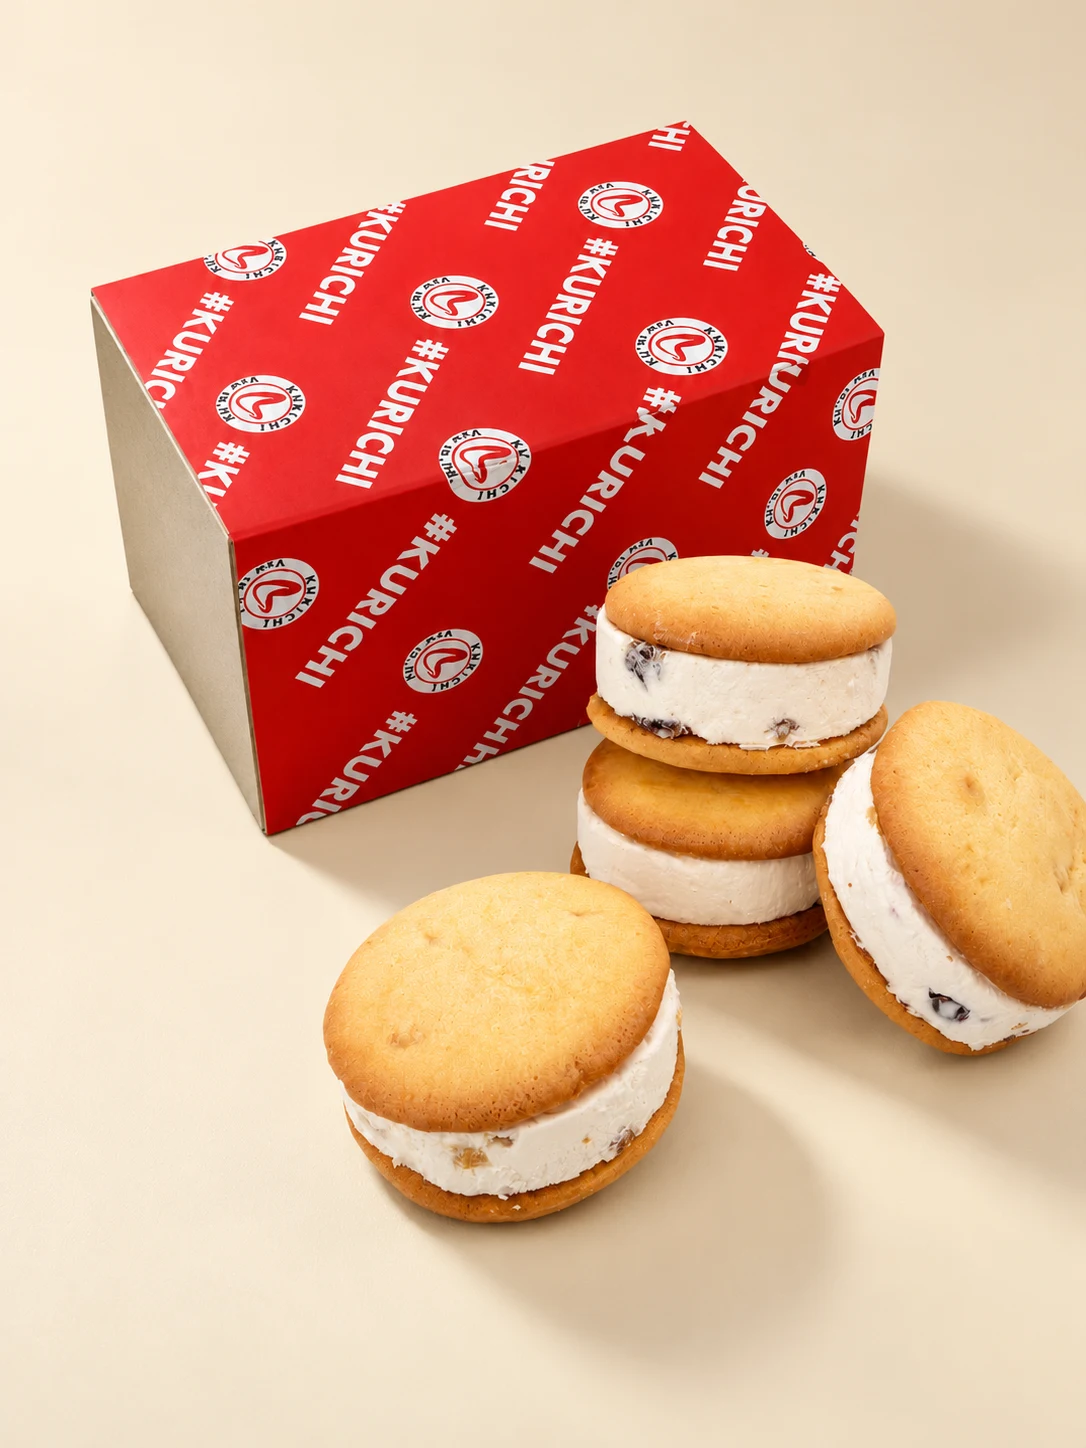
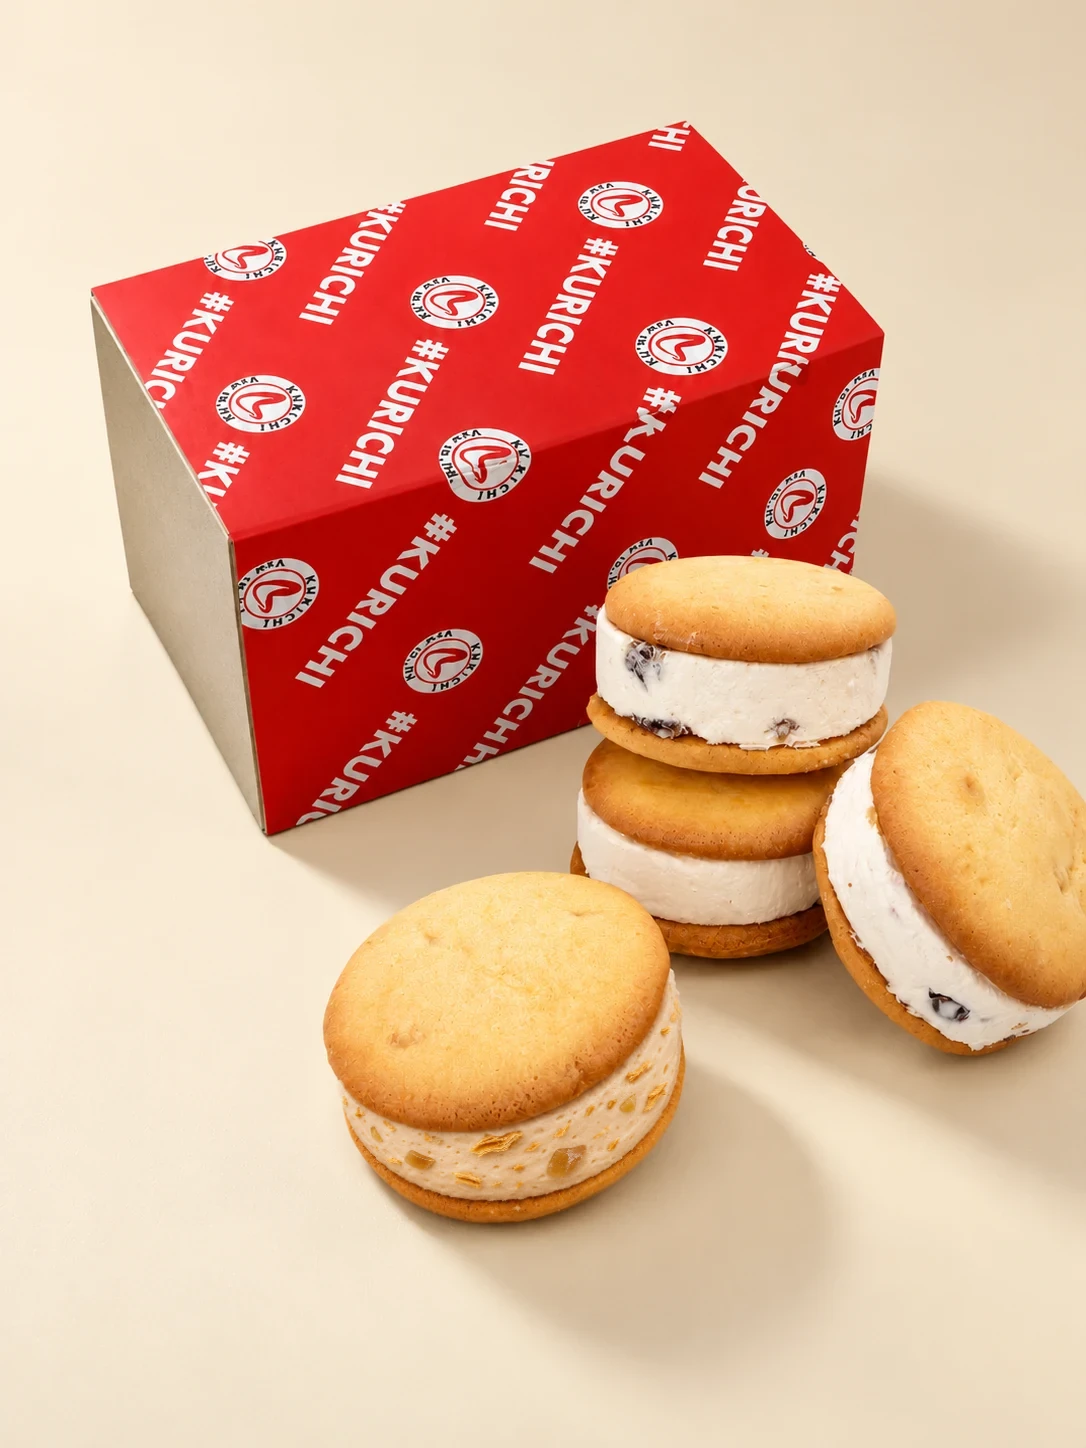
Refresh Woopee flavors and point sticker links to Coco’s reverse

Changed region(s): [[0.3039, 0.6526, 0.6381, 0.8391]]

diff --git a/new/index.html b/new/index.html
@@ -10,11 +10,11 @@
   <title>KURICHI — クリームチーズで、毎日をちょっと楽しく。</title>
   <link rel="preconnect" href="https://fonts.googleapis.com">
   <link rel="preconnect" href="https://fonts.gstatic.com" crossorigin>
-  <link rel="preload" href="assets/hero-stack.webp" as="image">
+  <link rel="preload" href="assets/hero-stack.webp?v=woopee6-20261128" as="image">
   <link rel="preload" href="assets/diner-hosts.webp" as="image">
   <link href="https://fonts.googleapis.com/css2?family=Anton&family=DM+Sans:wght@400;500;600;700;800&family=Noto+Sans+JP:wght@400;500;600;700;800;900&display=swap" rel="stylesheet">
-  <link rel="stylesheet" href="style.css?v=74d97e47">
-  <script src="script.js?v=f445f883" defer></script>
+  <link rel="stylesheet" href="style.css?v=e899a258">
+  <script src="script.js?v=8a1058e1" defer></script>
   <noscript><style>@media(max-width:760px){.site-header{height:auto;display:block;padding-block:18px}.primary-nav{display:flex;position:static;flex-wrap:wrap;flex-direction:row;box-shadow:none;padding:18px 0 0;gap:12px;height:auto}.primary-nav>a:not(.nav-shop){border:0;padding:6px 0;font-size:13px}.nav-shop{margin:0}.menu-toggle{display:none}}</style></noscript>
   <meta name="robots" content="noindex,nofollow,noarchive">
 </head>
@@ -40,12 +40,12 @@
             <p class="hero-jp">#クリチ、食べた？</p>
             <p class="hero-desc">クリームチーズで、<br>毎日をちょっと楽しく。<br>しっとりクッキーでクリームチーズをサンドした、ひんやりスイーツ「Woopee」。</p>
             <a class="button button-red" href="#flavors">フレーバーを見る <span aria-hidden="true">↗</span></a>
-            <div><a class="text-link hero-sticker-link" href="https://vsw.co.jp/kurichi-stickers/#collection">スーパークリチマンを見る <span aria-hidden="true">↗</span></a></div>
+            <div><a class="text-link hero-sticker-link" href="https://vsw.co.jp/kurichi-stickers3/#coco-back">ココのシール裏面を見る <span aria-hidden="true">↗</span></a></div>
           </div>
           <div class="hero-art">
             <div class="hero-disc" aria-hidden="true"></div>
             <img class="hero-character" width="1254" height="1254" src="assets/diner-hosts.webp" onerror="this.onerror=null;this.src='assets/kurichi-crew.webp'" alt="クリチの仲間たち" fetchpriority="high">
-            <img class="hero-product" src="assets/hero-stack.webp" onerror="this.onerror=null;this.src='assets/plain.webp'" alt="クッキーでクリームチーズを挟んだWoopee #kurichi" fetchpriority="high">
+            <img class="hero-product" src="assets/hero-stack.webp?v=woopee6-20261128" onerror="this.onerror=null;this.src='assets/plain.webp?v=woopee6-20261128'" alt="チョコ、マロン、クランベリーナッツのウーピー#クリチ" fetchpriority="high">
             <span class="hero-art-caption">A LITTLE BITE.<br>A LOT OF HAPPY. ✳</span>
           </div>
         </div>
@@ -79,34 +79,34 @@
       <div class="about-photo-wrap"><figure class="about-photo"><img width="1672" height="941" src="assets/texture-editorial.webp" alt="Woopee #kurichiのクッキーとクリームチーズの層" loading="lazy"><figcaption>SOFT COOKIE / RICH CREAM CHEESE / HAPPY FINISH</figcaption></figure><div class="photo-stamp" aria-hidden="true"><span>MADE TO<br>MAKE YOU<br>SMILE</span>✳</div></div>
     </section>
 
-    <section class="flavors" id="flavors" aria-labelledby="flavors-title" data-flavor="plain">
+    <section class="flavors" id="flavors" aria-labelledby="flavors-title" data-flavor="strawberry">
       <div class="flavors-inner section-pad">
         <div class="section-intro"><span class="section-kicker">02 / PICK YOUR MOOD</span><span class="section-kicker">WOOPEE / THE FLAVORS</span></div>
         <div class="flavor-head"><h2 id="flavors-title">PICK YOUR<br><em>FLAVOR.</em></h2><p>気分で選ぶ、6つの味。<br>お気に入りは、どれ？</p></div>
         <div class="flavor-stage">
-          <div class="flavor-list" role="tablist" aria-label="フレーバーを選択">
-            <button class="flavor-tab is-active" id="tab-plain" type="button" role="tab" aria-selected="true" aria-controls="flavor-panel" tabindex="0" data-flavor="plain"><span class="flavor-number">01</span><span>PLAIN<small>プレーン</small></span><b aria-hidden="true">↗</b></button>
-            <button class="flavor-tab" id="tab-lemon" type="button" role="tab" aria-selected="false" aria-controls="flavor-panel" tabindex="-1" data-flavor="lemon"><span class="flavor-number">02</span><span>LEMON<small>レモン</small></span><b aria-hidden="true">↗</b></button>
-            <button class="flavor-tab" id="tab-cranberry" type="button" role="tab" aria-selected="false" aria-controls="flavor-panel" tabindex="-1" data-flavor="cranberry"><span class="flavor-number">03</span><span>CRANBERRY NUTS<small>クランベリーナッツ</small></span><b aria-hidden="true">↗</b></button>
-            <button class="flavor-tab" id="tab-rumraisin" type="button" role="tab" aria-selected="false" aria-controls="flavor-panel" tabindex="-1" data-flavor="rumraisin"><span class="flavor-number">04</span><span>RUM RAISIN<small>ラムレーズン</small></span><b aria-hidden="true">↗</b></button>
-            <button class="flavor-tab" id="tab-chocolate" type="button" role="tab" aria-selected="false" aria-controls="flavor-panel" tabindex="-1" data-flavor="chocolate"><span class="flavor-number">05</span><span>CHOCOLATE<small>チョコ</small></span><b aria-hidden="true">↗</b></button>
-            <button class="flavor-tab" id="tab-strawberry" type="button" role="tab" aria-selected="false" aria-controls="flavor-panel" tabindex="-1" data-flavor="strawberry"><span class="flavor-number">06</span><span>STRAWBERRY<small>いちご</small></span><b aria-hidden="true">↗</b></button>
+          <div class="flavor-list" role="tablist" aria-label="ウーピー#クリチのフレーバーを選択">
+            <button class="flavor-tab is-active" id="tab-strawberry" type="button" role="tab" aria-selected="true" aria-controls="flavor-panel" tabindex="0" data-flavor="strawberry"><span class="flavor-number">01</span><span>STRAWBERRY<small>いちご</small></span><b aria-hidden="true">↗</b></button>
+            <button class="flavor-tab" id="tab-rumraisin" type="button" role="tab" aria-selected="false" aria-controls="flavor-panel" tabindex="-1" data-flavor="rumraisin"><span class="flavor-number">02</span><span>RUM RAISIN<small>ラムレーズン</small></span><b aria-hidden="true">↗</b></button>
+            <button class="flavor-tab" id="tab-chocolate" type="button" role="tab" aria-selected="false" aria-controls="flavor-panel" tabindex="-1" data-flavor="chocolate"><span class="flavor-number">03</span><span>CHOCOLATE<small>チョコ</small></span><b aria-hidden="true">↗</b></button>
+            <button class="flavor-tab" id="tab-marron" type="button" role="tab" aria-selected="false" aria-controls="flavor-panel" tabindex="-1" data-flavor="marron"><span class="flavor-number">04</span><span>MARRON<small>マロン</small></span><b aria-hidden="true">↗</b></button>
+            <button class="flavor-tab" id="tab-plain" type="button" role="tab" aria-selected="false" aria-controls="flavor-panel" tabindex="-1" data-flavor="plain"><span class="flavor-number">05</span><span>PLAIN<small>プレーン</small></span><b aria-hidden="true">↗</b></button>
+            <button class="flavor-tab" id="tab-cranberry" type="button" role="tab" aria-selected="false" aria-controls="flavor-panel" tabindex="-1" data-flavor="cranberry"><span class="flavor-number">06</span><span>CRANBERRY NUTS<small>クランベリーナッツ</small></span><b aria-hidden="true">↗</b></button>
           </div>
-          <div class="flavor-panel" id="flavor-panel" role="tabpanel" aria-labelledby="tab-plain" tabindex="0">
+          <div class="flavor-panel" id="flavor-panel" role="tabpanel" aria-labelledby="tab-strawberry" tabindex="0">
             <div class="flavor-orbit" aria-hidden="true"></div>
             <span class="flavor-panel-overline">YOUR CURRENT CRAVING / 01</span>
-            <img id="flavor-image" src="assets/plain.webp" alt="プレーンのWoopee #kurichi" loading="lazy">
-            <div class="flavor-panel-copy"><span id="flavor-index">01 / 06</span><div><h3 id="flavor-name">PLAIN</h3><p id="flavor-description">クリームチーズのコクを、まっすぐ楽しむ。まずはここから、王道のひとくち。</p></div></div>
+            <img id="flavor-image" src="assets/strawberry.webp?v=woopee6-20261128" alt="いちごのWoopee #kurichi" loading="lazy">
+            <div class="flavor-panel-copy"><span id="flavor-index">01 / 06</span><div><h3 id="flavor-name">STRAWBERRY</h3><p id="flavor-description">いちごの甘酸っぱさと、クリームチーズのまろやかさ。</p></div></div>
           </div>
         </div>
-        <noscript><div class="flavor-noscript"><p><strong>PLAIN / プレーン</strong> クリームチーズのコクを、まっすぐ楽しむ。まずはここから、王道のひとくち。</p><p><strong>LEMON / レモン</strong> レモンの爽やかさで、後味まで軽やか。気分を切り替えたい日に。</p><p><strong>CRANBERRY NUTS / クランベリーナッツ</strong> 果実の甘酸っぱさと、クルミの食感。ちょっと欲張りな組み合わせ。</p><p><strong>RUM RAISIN / ラムレーズン</strong> ラムレーズンの風味が広がる、ゆっくり味わいたいひとくち。</p><p><strong>CHOCOLATE / チョコ</strong> チョコのコクと、クリームチーズのなめらかさ。甘いひとときを、ひとくちに。</p><p><strong>STRAWBERRY / いちご</strong> いちごの甘酸っぱさと、クリームチーズのまろやかさ。やさしいピンクのひとくち。</p></div></noscript>
-        <div class="flavor-footer"><p>※クランベリーナッツにはクルミを使用しています。</p><a class="button button-dark" href="https://kurichi.vsw.co.jp/" target="_blank" rel="noopener noreferrer">ショップで見る <span aria-hidden="true">↗</span></a></div>
+        <noscript><div class="flavor-noscript"><p><strong>STRAWBERRY / いちご</strong> いちごの甘酸っぱさと、クリームチーズのまろやかさ。</p><p><strong>RUM RAISIN / ラムレーズン</strong> ラムの香るレーズンを、まろやかなクリームチーズに合わせました。</p><p><strong>CHOCOLATE / チョコ</strong> なめらかなクリームチーズにチョコチップを混ぜました。</p><p><strong>MARRON / マロン</strong> マロンクリームとクリームチーズに、栗の粒とパイクラムを混ぜました。</p><p><strong>PLAIN / プレーン</strong> クリームチーズのコクを、まっすぐ楽しむ。王道のひとくち。</p><p><strong>CRANBERRY NUTS / クランベリーナッツ</strong> クリームチーズに、甘酸っぱいクランベリーと香ばしいくるみを合わせました。</p></div></noscript>
+        <div class="flavor-footer"><p>※クランベリーナッツにはくるみを使用しています。</p><a class="button button-dark" href="https://kurichi.vsw.co.jp/" target="_blank" rel="noopener noreferrer">ショップで見る <span aria-hidden="true">↗</span></a></div>
       </div>
     </section>
 
     <section class="gift section-pad" id="gift" aria-labelledby="gift-title">
       <div class="section-intro"><span class="section-kicker">03 / SHARE THE GOOD MOOD</span><span class="section-kicker">THE GIFT</span></div>
-      <div class="gift-grid"><div class="gift-copy"><span class="gift-small">A LITTLE SOMETHING FOR SOMEONE</span><h2 id="gift-title">GOOD<br>THINGS<br>COME IN<br><em>RED BOXES.</em></h2><p class="gift-jp">あの人の「おいしい！」が、<br>目に浮かぶギフト。</p><p>手に取りやすいサイズのウーピーは、ちょっとした贈りものにも。冷たいおいしさを、大切な人へ。</p><a class="button button-red" href="https://kurichi.vsw.co.jp/" target="_blank" rel="noopener noreferrer">ギフトを探す <span aria-hidden="true">↗</span></a></div><figure class="gift-visual"><img width="1086" height="1448" src="assets/gift-editorial.webp" alt="赤い#クリチのギフトボックスとWoopee #kurichi" loading="lazy"><figcaption>THE GIFT THAT GETS A GRIN.</figcaption></figure></div>
+      <div class="gift-grid"><div class="gift-copy"><span class="gift-small">A LITTLE SOMETHING FOR SOMEONE</span><h2 id="gift-title">GOOD<br>THINGS<br>COME IN<br><em>RED BOXES.</em></h2><p class="gift-jp">あの人の「おいしい！」が、<br>目に浮かぶギフト。</p><p>手に取りやすいサイズのウーピーは、ちょっとした贈りものにも。冷たいおいしさを、大切な人へ。</p><a class="button button-red" href="https://kurichi.vsw.co.jp/" target="_blank" rel="noopener noreferrer">ギフトを探す <span aria-hidden="true">↗</span></a></div><figure class="gift-visual"><img width="1086" height="1448" src="assets/gift-editorial.webp?v=woopee6-20261128" alt="赤い#クリチのギフトボックスとWoopee #kurichi" loading="lazy"><figcaption>THE GIFT THAT GETS A GRIN.</figcaption></figure></div>
     </section>
 
     <section class="enjoy section-pad" id="enjoy" aria-labelledby="enjoy-title"><div class="section-intro"><span class="section-kicker">04 / THE BEST BITE</span><span class="section-kicker">HOW TO ENJOY</span></div><div class="enjoy-heading"><h2 id="enjoy-title">STAY COOL.<br><em>THEN DIG IN.</em></h2><p>ひんやりから、なめらかへ。<br>自分好みの食べごろを見つけて。</p></div><div class="steps"><div class="step"><span>01 / KEEP</span><div class="step-icon" aria-hidden="true">❄</div><h3>冷凍でキープ。</h3><p>食べるまでは冷凍庫で。ひんやりおいしさをスタンバイ。</p></div><div class="step"><span>02 / WAIT</span><div class="step-icon" aria-hidden="true">◒</div><h3>少しだけ解凍。</h3><p>お好みに合わせて少し解凍。やわらかな口どけが広がります。</p></div><div class="step"><span>03 / BITE</span><div class="step-icon" aria-hidden="true">✳</div><h3>さあ、ひとくち。</h3><p>クッキーと#クリチdiscを一緒に。今日のご褒美時間へ。</p></div></div></section>
@@ -123,7 +123,7 @@
       <a class="text-link" href="../menu.html">全ラインアップを見る <span aria-hidden="true">↗</span></a>
     </section>
 
-    <section class="world section-pad" aria-labelledby="world-title"><div class="section-intro"><span class="section-kicker">06 / MORE TO EXPLORE</span><span class="section-kicker">THE WORLD OF #KURICHI</span></div><h2 id="world-title">SAME SPIRIT.<br><em>MORE TO LOVE.</em></h2><a class="crew-feature" href="https://vsw.co.jp/kurichi-stickers/#collection"><div class="crew-copy"><span>KURICHI STICKER COLLECTION</span><strong>スーパー<br>クリチマン</strong><p>シール全20種を見る ↗</p></div><img class="sticker-banner-image" src="assets/kurichi-sticker-banner.webp" width="1734" height="907" alt="キラキラシール #KURICHI STICKER COLLECTION 全20種" loading="lazy"></a><div class="world-links"><a href="../index.html"><span>01 / ORIGINAL</span><strong>#kurichi</strong><b aria-hidden="true">↗</b></a><a href="../harichi.html"><span>02 / DISCOVER</span><strong>Harichi</strong><b aria-hidden="true">↗</b></a><a href="../about.html"><span>03 / OUR STORY</span><strong>About us</strong><b aria-hidden="true">↗</b></a></div></section>
+    <section class="world section-pad" aria-labelledby="world-title"><div class="section-intro"><span class="section-kicker">06 / MORE TO EXPLORE</span><span class="section-kicker">THE WORLD OF #KURICHI</span></div><h2 id="world-title">SAME SPIRIT.<br><em>MORE TO LOVE.</em></h2><a class="crew-feature" href="https://vsw.co.jp/kurichi-stickers3/#coco-back"><div class="crew-copy"><span>NY KURICHI STICKER CLUB</span><strong>NYクリチ<br>シール図鑑</strong><p>ココのシール裏面を見る ↗</p></div><div class="sticker-pair" aria-hidden="true"><img src="../kurichi-stickers3/assets/stickers/11-coco-sm.webp?v=coco02-20261121" width="472" height="472" alt="" loading="lazy"><img src="../kurichi-stickers3/assets/backs/11-coco.webp?v=coco01-20261121" width="1000" height="1000" alt="" loading="lazy"></div></a><div class="world-links"><a href="../index.html"><span>01 / ORIGINAL</span><strong>#kurichi</strong><b aria-hidden="true">↗</b></a><a href="../harichi.html"><span>02 / DISCOVER</span><strong>Harichi</strong><b aria-hidden="true">↗</b></a><a href="../about.html"><span>03 / OUR STORY</span><strong>About us</strong><b aria-hidden="true">↗</b></a></div></section>
 
     <section class="news section-pad" id="news" aria-labelledby="news-title">
       <div class="section-intro"><span class="section-kicker">07 / WHAT'S NEW</span><span class="section-kicker">LATEST UPDATES</span></div>
@@ -139,6 +139,6 @@
 
     <section class="end-cta" aria-labelledby="end-title"><div class="end-cta-inner"><span>GOOD MOODS ARE MADE TO BE SHARED ✳</span><h2 id="end-title">GOT<br><em>KURICHI?</em></h2><p>ひとくちで、気分はウーピー。<br>次のご褒美は、ここから。</p><a href="https://kurichi.vsw.co.jp/" target="_blank" rel="noopener noreferrer">SHOP #KURICHI <b aria-hidden="true">↗</b></a></div><span class="end-deco" aria-hidden="true">✳</span></section>
   </main>
-  <footer class="site-footer"><div class="footer-top"><a class="footer-mark" href="#top">KURICHI</a><img class="footer-logo" src="assets/vsw-logo.svg" alt="VSW"><p>COOL OUT. BITE IN. FEEL GOOD.</p></div><div class="footer-bottom"><div><a href="../menu.html">MENU</a><a href="../news/index.html">NEWS</a><a href="../dealer.html">STOCKISTS</a><a href="https://www.instagram.com/kurichi.jp/" target="_blank" rel="noopener noreferrer">INSTAGRAM ↗</a></div><p>© KURICHI / VSW</p></div><small>販売フレーバー・在庫状況はオンラインショップでご確認ください。<br>一部ビジュアルはリニューアル提案用のイメージです。</small></footer>
+  <footer class="site-footer"><div class="footer-top"><a class="footer-mark" href="#top">KURICHI</a><img class="footer-logo" src="assets/vsw-logo.svg" alt="VSW"><p>COOL OUT. BITE IN. FEEL GOOD.</p></div><div class="footer-bottom"><div><a href="../menu.html">MENU</a><a href="../news/index.html">NEWS</a><a href="../dealer.html">STOCKISTS</a><a href="https://www.instagram.com/kurichi.jp/" target="_blank" rel="noopener noreferrer">INSTAGRAM ↗</a></div><p>© KURICHI / VSW</p></div><small>販売フレーバー・在庫状況はオンラインショップでご確認ください。</small></footer>
 </body>
 </html>

diff --git a/new/script.js b/new/script.js
@@ -23,12 +23,12 @@ document.addEventListener('click', (event) => {
 });
 
 const flavors = {
-  plain: { name: 'PLAIN', image: 'assets/plain.webp', alt: 'プレーンのWoopee #kurichi', description: 'クリームチーズのコクを、まっすぐ楽しむ。まずはここから、王道のひとくち。', index: '01' },
-  lemon: { name: 'LEMON', image: 'assets/lemon.webp', alt: 'レモンのWoopee #kurichi', description: 'レモンの爽やかさで、後味まで軽やか。気分を切り替えたい日に。', index: '02' },
-  cranberry: { name: 'CRANBERRY NUTS', image: 'assets/cranberry.webp', alt: 'クランベリーナッツのWoopee #kurichi', description: '果実の甘酸っぱさと、クルミの食感。ちょっと欲張りな組み合わせ。', index: '03' },
-  rumraisin: { name: 'RUM RAISIN', image: 'assets/rumraisin.webp', alt: 'ラムレーズンのWoopee #kurichi', description: 'ラムレーズンの風味が広がる、ゆっくり味わいたいひとくち。', index: '04' },
-  chocolate: { name: 'CHOCOLATE', image: 'assets/chocolate.webp', alt: 'チョコのWoopee #kurichi', description: 'チョコのコクと、クリームチーズのなめらかさ。甘いひとときを、ひとくちに。', index: '05' },
-  strawberry: { name: 'STRAWBERRY', image: 'assets/strawberry.webp', alt: 'いちごのWoopee #kurichi', description: 'いちごの甘酸っぱさと、クリームチーズのまろやかさ。やさしいピンクのひとくち。', index: '06' }
+  strawberry: { name: 'STRAWBERRY', image: 'assets/strawberry.webp?v=woopee6-20261128', alt: 'いちごのWoopee #kurichi', description: 'いちごの甘酸っぱさと、クリームチーズのまろやかさ。', index: '01' },
+  rumraisin: { name: 'RUM RAISIN', image: 'assets/rumraisin.webp?v=woopee6-20261128', alt: 'ラムレーズンのWoopee #kurichi', description: 'ラムの香るレーズンを、まろやかなクリームチーズに合わせました。', index: '02' },
+  chocolate: { name: 'CHOCOLATE', image: 'assets/chocolate.webp?v=woopee6-20261128', alt: 'チョコのWoopee #kurichi', description: 'なめらかなクリームチーズにチョコチップを混ぜました。', index: '03' },
+  marron: { name: 'MARRON', image: 'assets/marron.webp?v=woopee6-20261128', alt: 'マロンのWoopee #kurichi', description: 'マロンクリームとクリームチーズに、栗の粒とパイクラムを混ぜました。', index: '04' },
+  plain: { name: 'PLAIN', image: 'assets/plain.webp?v=woopee6-20261128', alt: 'プレーンのWoopee #kurichi', description: 'クリームチーズのコクを、まっすぐ楽しむ。王道のひとくち。', index: '05' },
+  cranberry: { name: 'CRANBERRY NUTS', image: 'assets/cranberry.webp?v=woopee6-20261128', alt: 'クランベリーナッツのWoopee #kurichi', description: 'クリームチーズに、甘酸っぱいクランベリーと香ばしいくるみを合わせました。', index: '06' }
 };
 
 const flavorSection = document.querySelector('.flavors');

diff --git a/new/style.css b/new/style.css
@@ -328,8 +328,8 @@ h1,h2,h3 {
   background:#f3d6a5;
   transition:background-color .35s
 }
-.flavors[data-flavor=lemon] {
-  background:#f3e686
+.flavors[data-flavor=marron] {
+  background:#d9bd9d
 }
 .flavors[data-flavor=cranberry] {
   background:#edb6b2
@@ -1504,14 +1504,17 @@ h1,h2,h3 {
 .hero-sticker-link { margin-top:18px; gap:12px; max-width:100% }
 .hero-sticker-link:hover { gap:16px }
 
-/* Sticker collection banner */
-.crew-feature .sticker-banner-image {
-  display:block;
-  width:100%;
-  height:auto;
-  max-height:none;
-  align-self:center;
+/* Coco's sticker, front and back */
+.sticker-pair {
+  display:flex;
+  align-items:center;
+  justify-content:center;
+  gap:clamp(8px,2vw,24px);
+  padding:clamp(18px,3vw,40px);
 }
-@media(max-width:760px) {
-  .crew-feature .sticker-banner-image { margin-top:24px; }
+.sticker-pair img {
+  width:calc(50% - 12px);
+  max-width:300px;
+  height:auto;
+  box-shadow:4px 6px 0 rgba(56,36,26,.15);
 }
